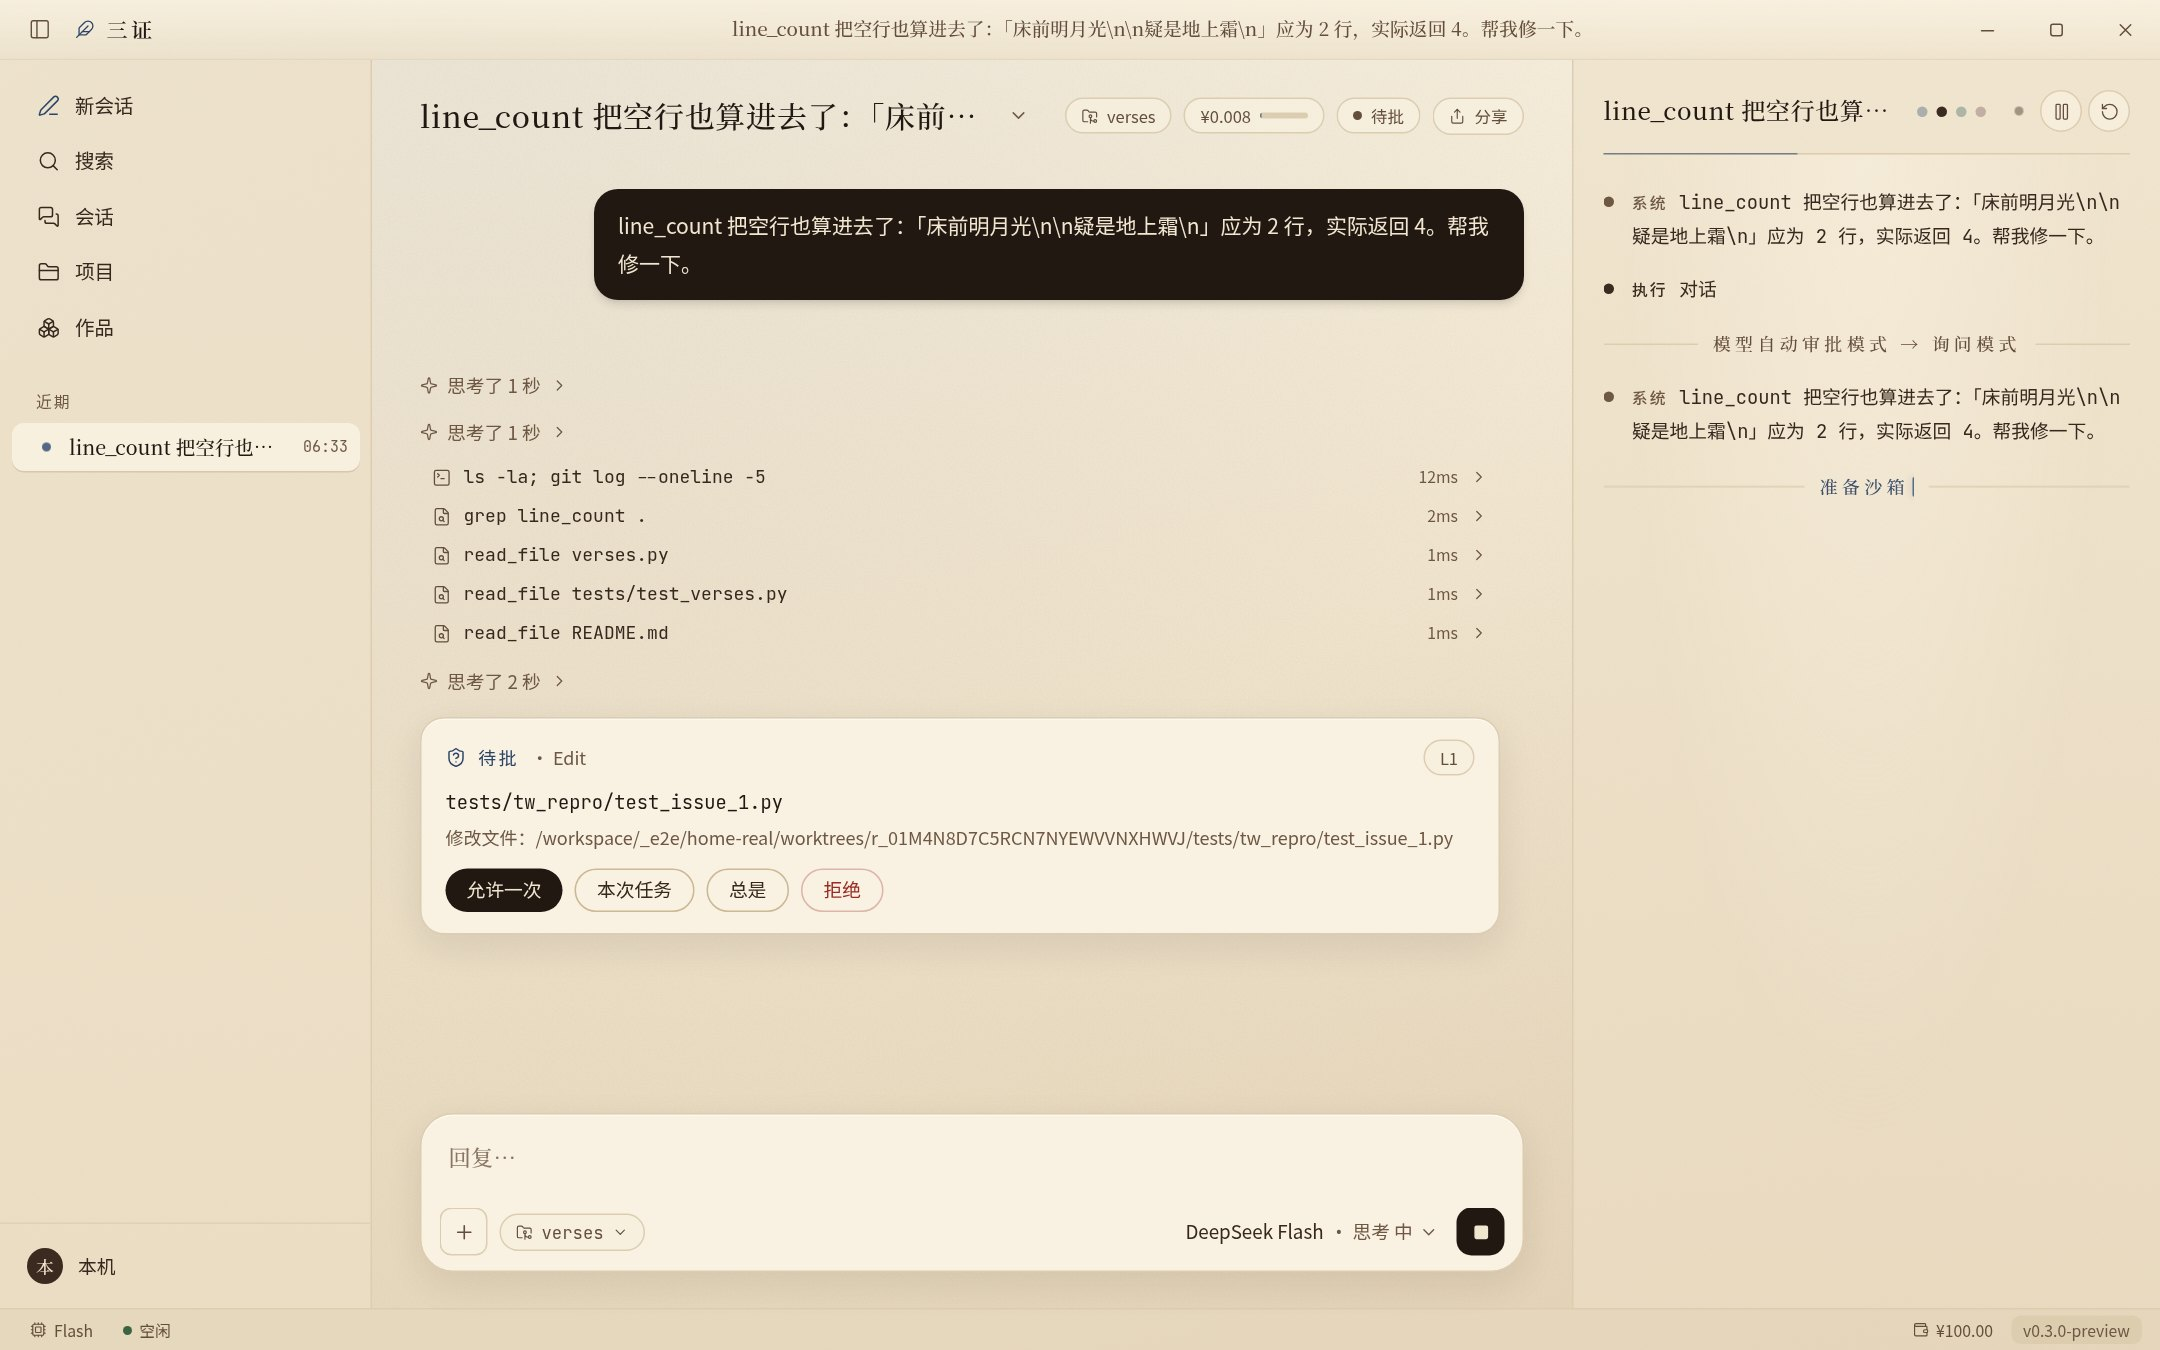
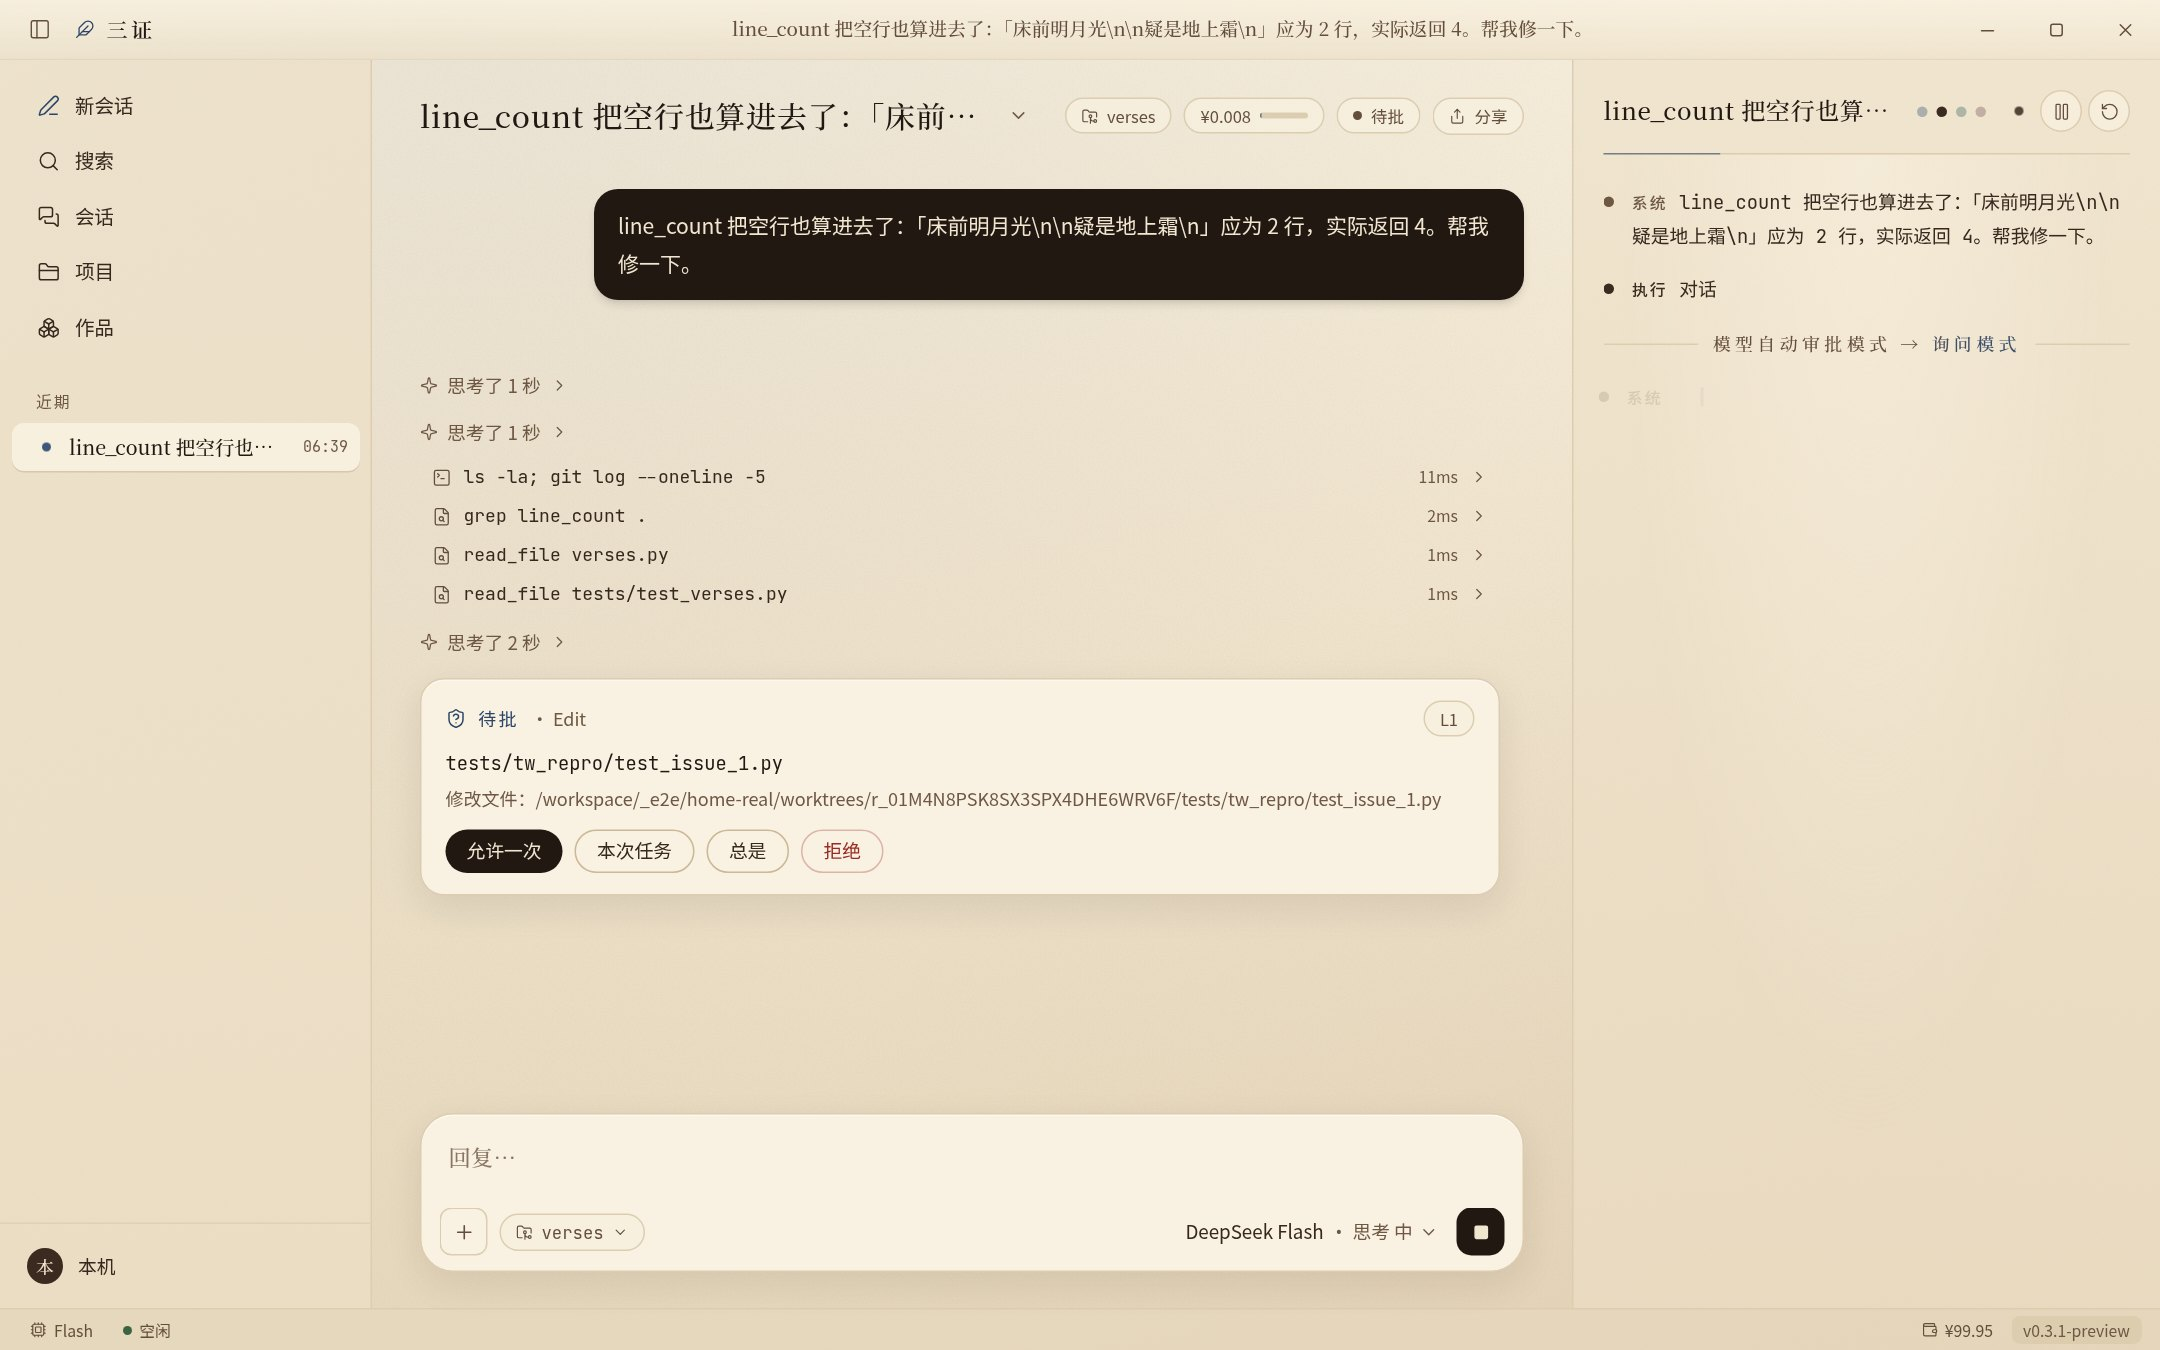
0.3.1：首次真实 key 验收（你好 / 多轮 / 询问与自动审核小任务）截图与花费记录

Changed region(s): [[0.1861, 0.4667, 0.7134, 0.7156], [0.7444, 0.28, 0.9616, 0.3422], [0.8375, 0.3422, 0.8685, 0.3733]]

diff --git a/apps/desktop/STATUS.md b/apps/desktop/STATUS.md
@@ -11,6 +11,13 @@
 - **正式版移除演示模式**：PyInstaller 排除 `bridge.demo` / `harness.testing` / `verify.testing` / `llm.fake` 并在构建时用 `pyi-archive_viewer` 校验；`tw.exe run --demo` → “正式版不含演示模式”。Rust 发行构建只有 live（调试构建才放行 demo / replay）、仓库可空、`--parent-run` 只放行合法 run_id、没密钥返回 `missing_api_key`。前端 fixture / mock / 压测来源只在 `import.meta.env.DEV`，正式版默认打开新会话；去掉“运行方式”设置和全部「演示」文案；`npm run check:bundle` 扫正式版前端包（CI desktop job + package-windows）。
 - **密钥引导**：凭据库没有密钥时首次打开弹“连接 DeepSeek”（链接 platform.deepseek.com/api_keys），没密钥就发送也弹，保存后自动把那条消息发出去。
 - **测试**：本机 OpenAI 兼容模拟服务 `packaging/mock_llm.py` + `TW_LLM_BASE_URL_OVERRIDE`（只允许 127.0.0.1 / localhost，用到时 stderr 告警）。`smoke_core.py` 改为：拒绝 `--demo`、「你好」直接回复（无 task_started / tool_call / patch）、「我刚才说了什么」复述、未选仓库请选、verses 小任务（询问模式 + 自动批准）done / pass、所有请求带鉴权且是 SSE、账本有记录——Linux 打包核心本机全过。Python 单测 +15（`tests/unit/harness/test_chat.py`），vitest +6（`chatTurn.test.ts`），e2e `tools/shoot-v031.mjs`（正式版前端包 + `vite preview` 开发桥 + 打包核心 + 模拟服务，13 项全过）。截图 `docs/images/v0.3.1/`。
+- **真实 key 验收（2026-10-11 18:33–18:40 UTC+8，deepseek-flash，全部经账本，高峰调用 0 次）**：正式版前端包（`vite preview` + 开发桥）+ Linux 打包核心 + 真实适配器。
+  - 「你好」+ 多轮跟进：¥0.0010（重拍时命中本地 llm-cache，¥0）。
+  - verses 询问模式首跑：¥0.0212，结论“复验未过”——暴露 `submit_repro` 把 `python: command not found` 当成复现（已修，见 CHANGELOG）。
+  - 修复后询问模式：¥0.0129 / ¥0.0161（两次），复验通过、风险 L2（无沙箱，干净环境未验证）。
+  - 自动审核模式：¥0.0145 / ¥0.0105（两次），复验通过；审核模型自动批准 5 次，工作区外路径 1 次升级给人。
+  - 合计 ¥0.0762。结论卡上的金额（¥0.017–0.023）含命中本地缓存的调用的名义价，高于账本实付。
+  - 截图（真实输出）：`hello.jpg`、`followup.jpg`、`task-ask.jpg`、`task-ask-approval.jpg`、`task-auto_review.jpg`、`task-auto_review-approval.jpg`。
 - **还没做**：用真实 DeepSeek 密钥从 App 发起的运行（box 上没有项目密钥）。
 
 ## 0.3.0-preview · 公开预览（84244a0 … d8f800e）

diff --git a/CHANGELOG.md b/CHANGELOG.md
@@ -16,6 +16,12 @@
 - 高峰时段被拒时给出可操作的提示（桥接 `error.code = peak_blocked`，去 设置 → 预算 允许高峰调用）。
 - 测试用本机 OpenAI 兼容模拟服务（`packaging/mock_llm.py`）+ 仅限 127.0.0.1 的 `TW_LLM_BASE_URL_OVERRIDE`：CI 和打包冒烟用它跑真实适配器 → SSE 流式 → 对话轮 → Executor 全链路（「你好」直接回复、多轮复述、未选仓库、一个小任务），¥0、不需要密钥。
 
+### 修复
+- `submit_repro`：复现命令自身跑不起来（exit 126/127「command not found」、没装 pytest、pytest 用法错误 / 没收集到测试）不再算“复现成立”，而是拒绝并提示先确认解释器和测试框架（`error_code=repro_cmd_broken`）。真实 key 首跑发现：机器上没有 `python` 时，`python -m pytest` 的 127 被当成复现失败，修复后复验两边都“失败”，结论变成“复验未过”。
+
+### 验收（真实 key，首次）
+- 在开发机上用真实 DeepSeek 密钥（deepseek-flash，经账本）从正式版前端包 + 开发桥 + 打包核心跑通：「你好」直接回复、多轮跟进复述、verses 小任务（询问模式、自动审核模式）均“复验通过”。自动审核模式下 5 次命令由审核模型自动批准（每次约 ¥0.0004），1 次访问工作区外路径升级给人批准。截图 `docs/images/v0.3.1/`（均为真实模型输出）。合计实际花费见 `apps/desktop/STATUS.md`。
+
 ### 移除
 - 前端的演示 / 回放 / 压测来源和“运行方式”设置（开发构建仍可用）。
 

diff --git a/README.md b/README.md
@@ -5,7 +5,7 @@
 > v0.3.1 是**预览版**：需要你自己的 DeepSeek API 密钥（从 0.3.1 起没有演示模式，一律用真实模型）。可以像聊天一样问它问题，要它修仓库里的问题时它才动手。它**不会推送代码，也不会在 GitHub 上创建 PR**，只在本地生成分支和 PR 说明，要不要推送、开 PR 由你决定。完整限制见 [已知限制](docs/release/known-limitations.md)。
 
 <p align="center">
-  <img src="docs/images/v0.3.1/task-ask.jpg" width="820" alt="任务完成后的结论卡：复验通过、风险等级、PR 说明摘要、复制 PR 说明"><br>
+  <img src="docs/images/v0.3.1/task-auto_review.jpg" width="820" alt="真实 deepseek-flash 输出 · 任务完成后的结论卡：复验通过、风险等级、PR 说明摘要、复制 PR 说明"><br>
   <sub>结论卡：复验结论 · 风险等级 · PR 说明 · 本地分支</sub>
 </p>
 
